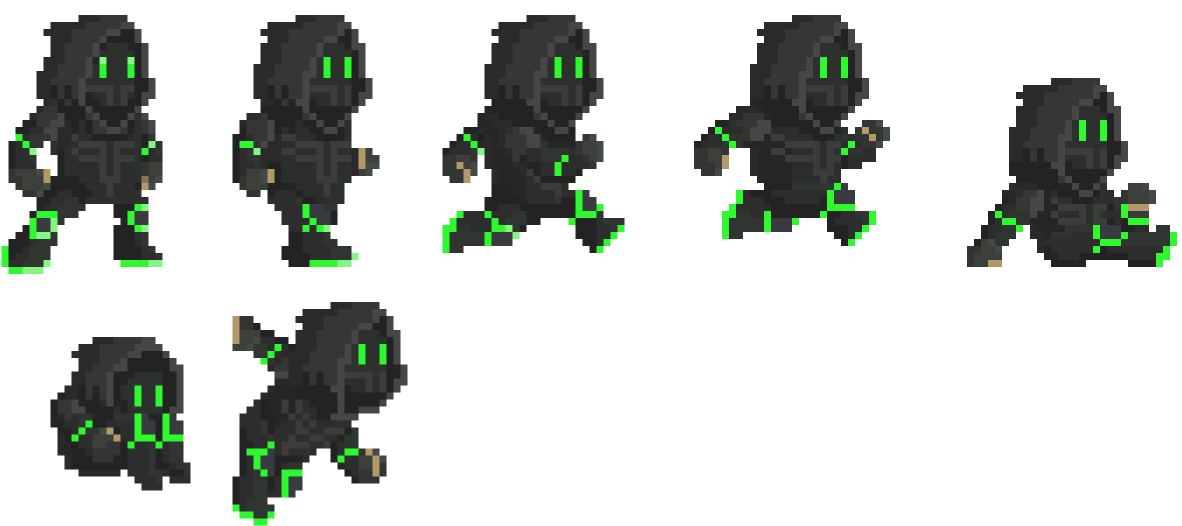
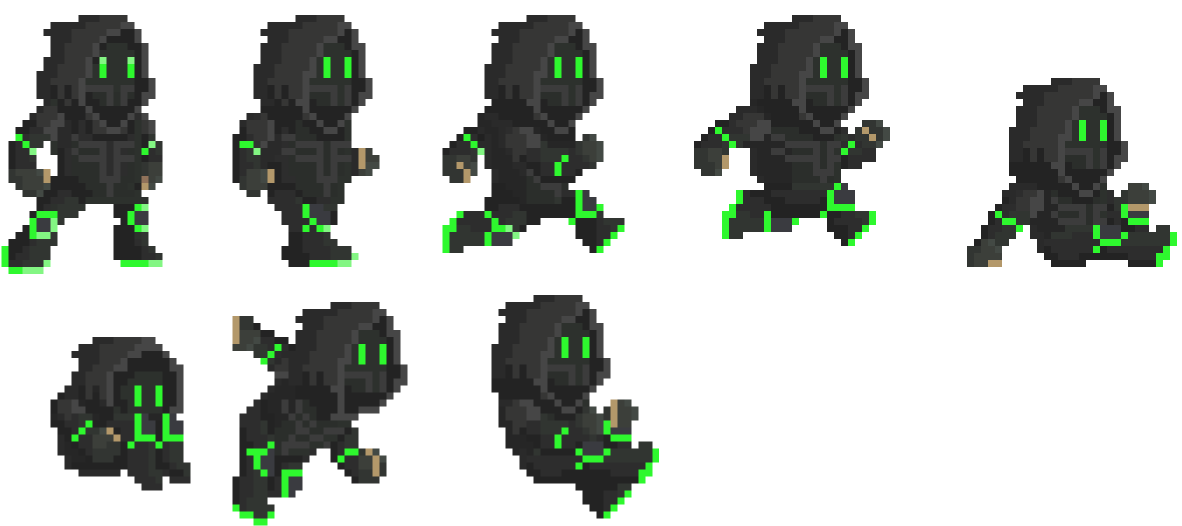
Final change, added swing sprite

Changed region(s): [[0.3959, 0.5475, 0.5787, 1.0]]

diff --git a/Jet Set Willy Prototype/Assets/Scripts/PlayerControl.cs b/Jet Set Willy Prototype/Assets/Scripts/PlayerControl.cs
@@ -23,6 +23,7 @@ public class SpriteSet
     public Sprite idle;
     public Sprite slide;
     public Sprite hang;
+    public Sprite swing;
 }
 
 //will  refactor at some point
@@ -549,7 +550,7 @@ public class PlayerControl : MonoBehaviour
     private void swinging()
     {
         graphicTransform.rotation = Quaternion.identity;
-        graphic.sprite = normal.hang;
+        graphic.sprite = normal.swing;
 
         if (Input.GetKey("w"))
         {
